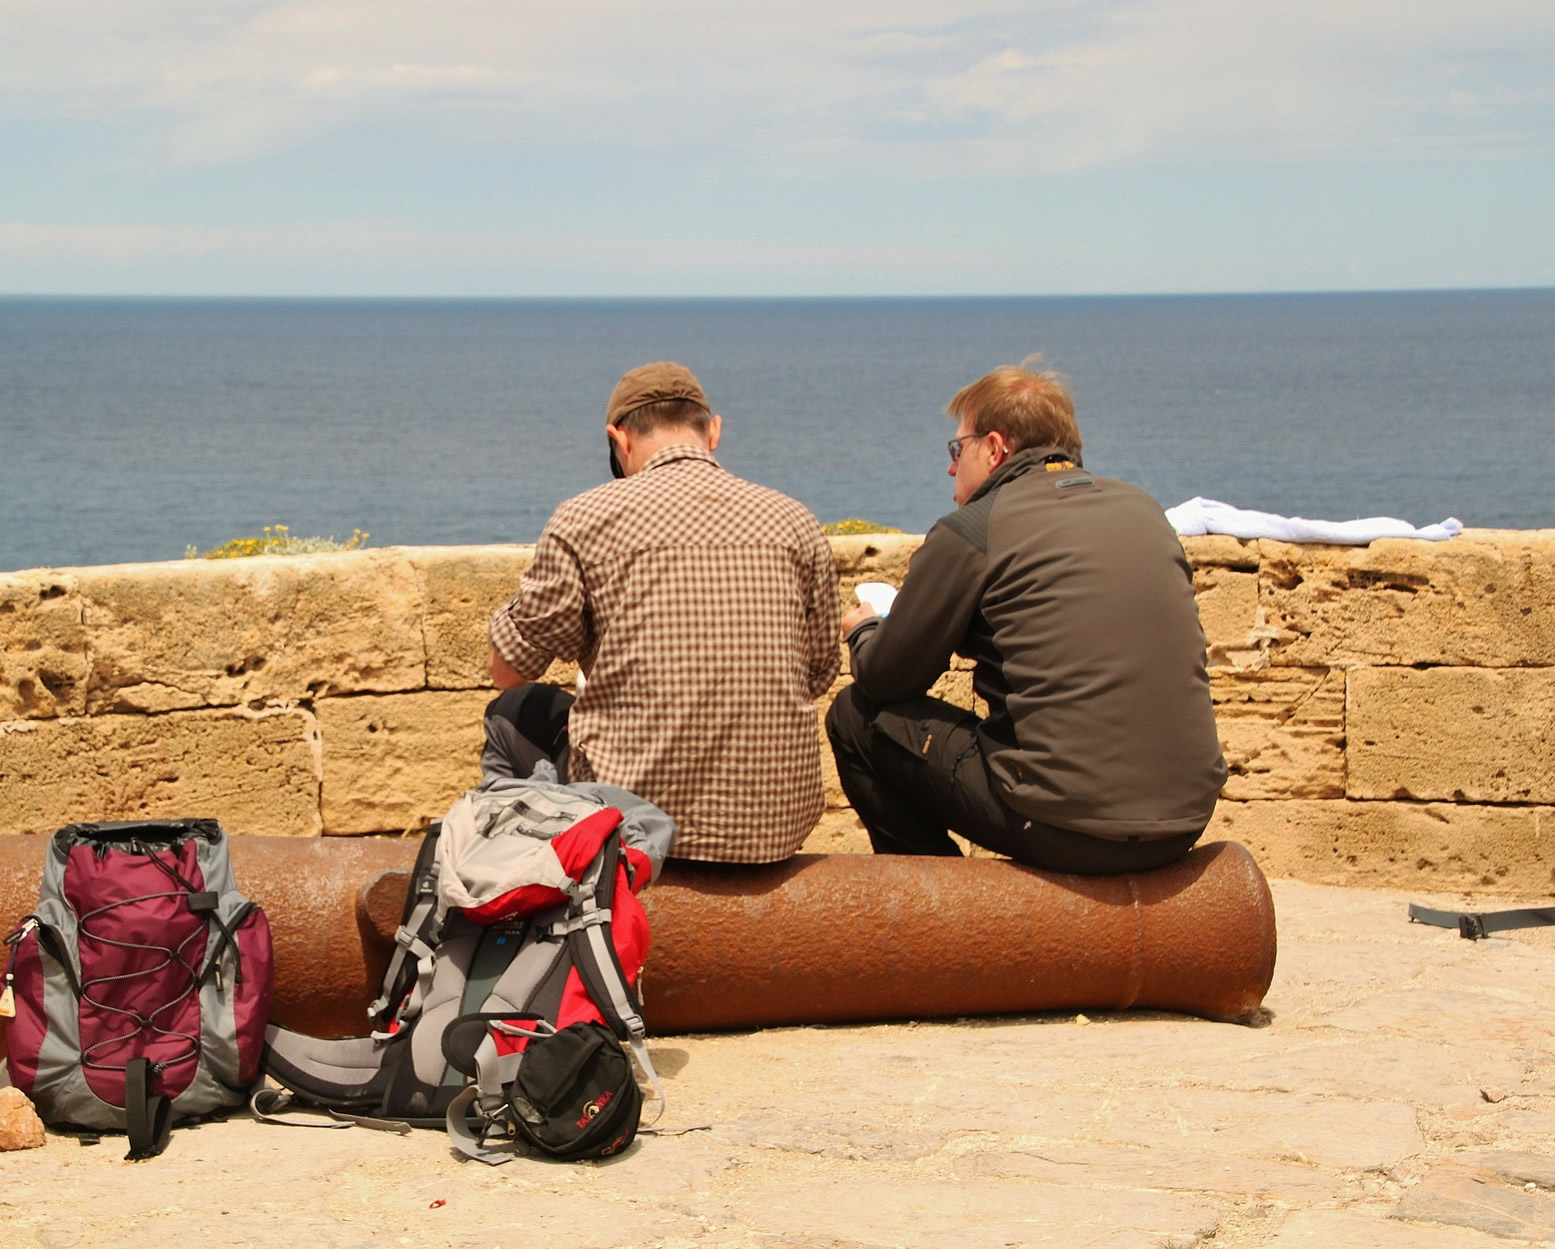
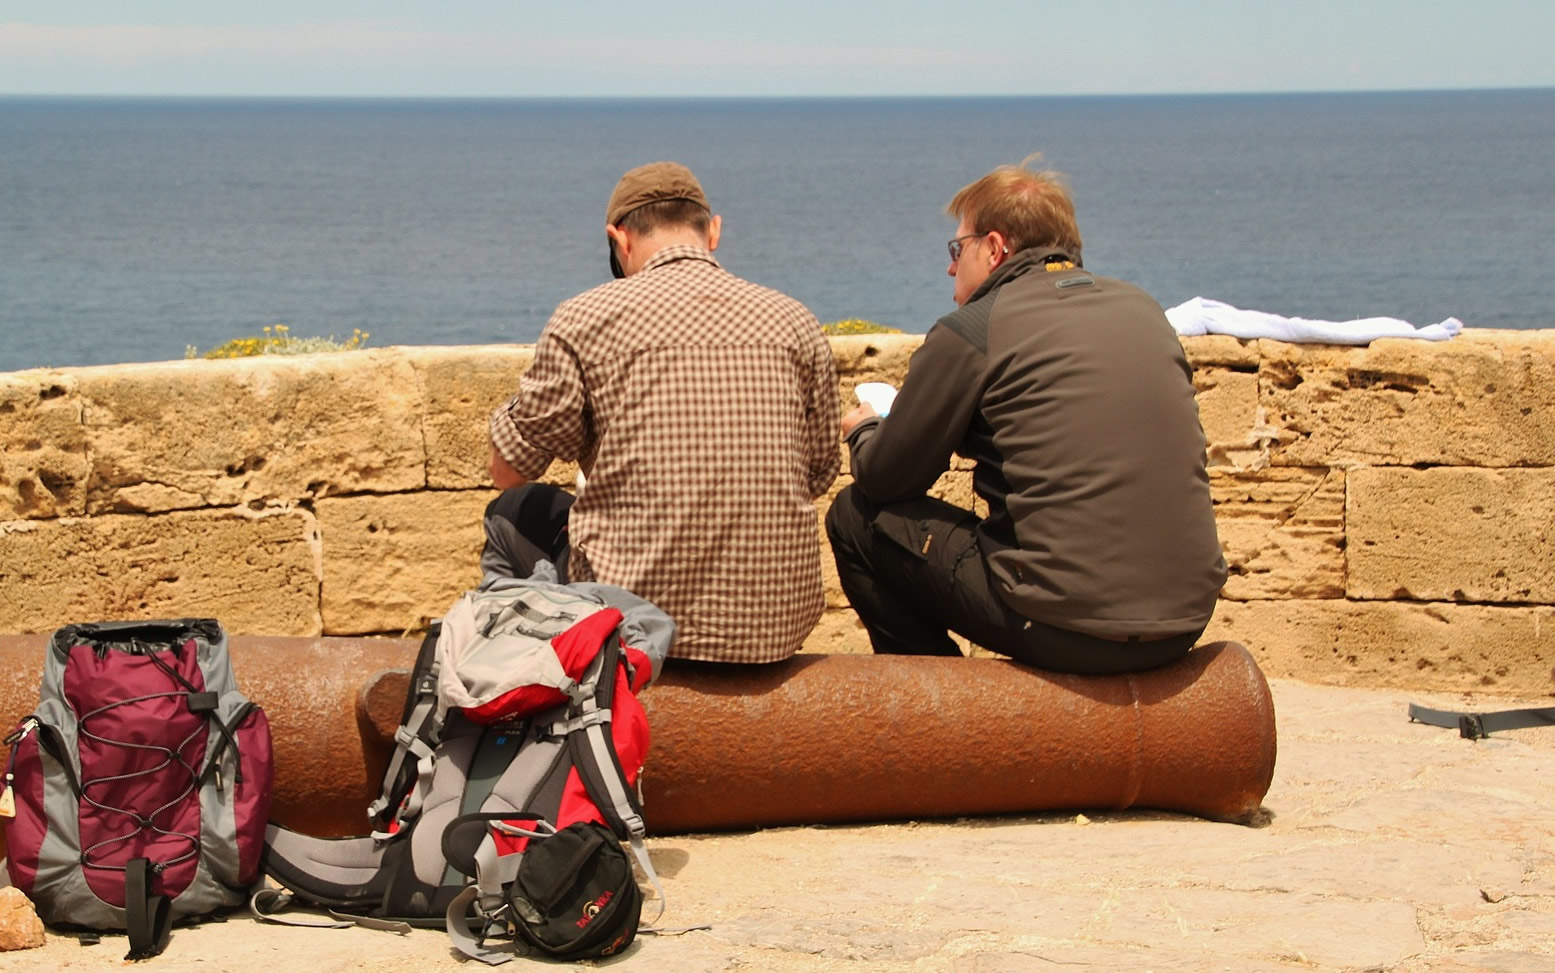
improve layout about device-brands-page

diff --git a/app/assets/stylesheets/device_brands.css.scss b/app/assets/stylesheets/device_brands.css.scss
@@ -6,7 +6,7 @@
 }
 
 .device_brands_container {
-	margin: 75px auto 0;
+	margin: 60px auto 25px;
 	width: 60%;
 	height: auto;
 }
@@ -42,7 +42,7 @@
 /* color */
 /* http://pixabay.com/ja/%E3%83%8F%E3%82%A4%E3%82%AD%E3%83%B3%E3%82%B0-%E6%94%BE%E6%B5%AA%E8%80%85-%E4%BC%91%E6%86%A9-%E3%83%90%E3%83%83%E3%82%AF%E3%83%91%E3%83%83%E3%82%AF-%E3%83%90%E3%83%83%E3%82%AF%E3%83%91%E3%83%83%E3%82%AB%E3%83%BC%E3%82%BA-275796/ */
 main {
-	background: linear-gradient(125deg, #009, #f00) fixed, image-url("hiking-275796_1920_custom2.jpg");
+	background: linear-gradient(125deg, #009, #f00), image-url("hiking-275796_1920_custom.jpg");
 	background-repeat: no-repeat;
 	background-size: cover;
 	background-position: left 0px bottom 70px;
